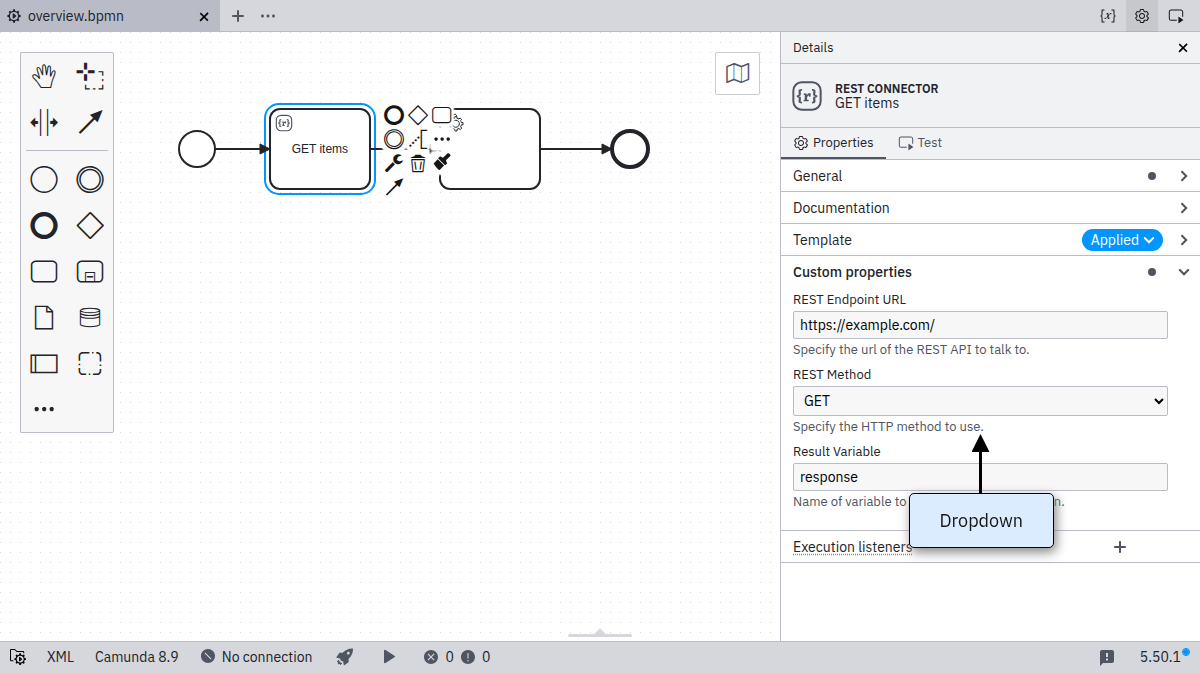
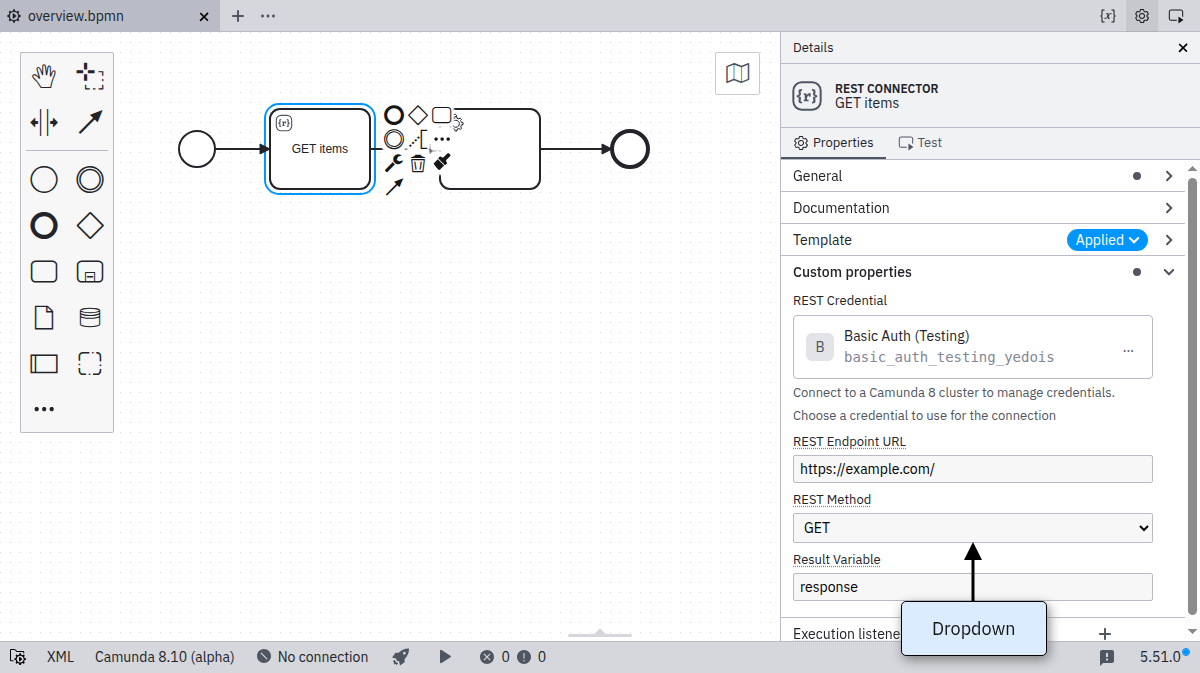
docs(modeler): document Configuration element-template property type

diff --git a/docs/components/modeler/element-templates/template-properties.md b/docs/components/modeler/element-templates/template-properties.md
@@ -36,7 +36,7 @@ The property object keys are divided into required and optional keys:
 
 ### Optional keys
 
-- [`type : "String" | "Text" | "Boolean" | "Dropdown" | "Hidden"`](#setting-the-input-type-type): Defines the input type in the properties panel.
+- [`type : "String" | "Text" | "Boolean" | "Dropdown" | "Hidden" | "Configuration"`](#setting-the-input-type-type): Defines the input type in the properties panel.
 - [`value : String | Number | Boolean`](#setting-a-default-value-value): The default value used if the bound property is not yet set by the user or if the type is `Hidden`.
 - [`generatedValue : Object`](#generating-a-value-generatedvalue): Configuration used to generate a value when the property is applied to an element.
 - [`placeholder : String`](#setting-a-text-placeholder-placeholder): Placeholder text shown in the input field when it is empty.
@@ -94,7 +94,7 @@ The key-value pairs of the property object are explained in the following sectio
 
 ## Setting the input type: `type`
 
-The input types `String`, `Text`, `Number`, `Boolean`, `Dropdown`, and `Hidden` are available.
+The input types `String`, `Text`, `Number`, `Boolean`, `Dropdown`, `Hidden`, and `Configuration` are available.
 
 ### String input type
 
@@ -156,6 +156,44 @@ The `Dropdown` type allows users to select from a number of pre-defined options 
 The resulting properties panel control looks like this:
 
 ![properties panel drop down](./img/field-dropdown.png)
+
+### Configuration input type
+
+The `Configuration` type renders a chooser for a reusable, host-provided configuration selected by reference. It locks to a single [configuration template](./template-metadata.md#embedding-configurations-configurationtemplates), so only compatible configurations are offered.
+
+A configuration is stored on the cluster as a cluster variable that is created with metadata identifying its kind (for example `CREDENTIAL`), its configuration template, and its version. This metadata lets the chooser find compatible configurations and lock to a single template. Selection and resolution happen in two phases:
+
+- **Design time (selection)**: The modeler queries the connected cluster for configurations whose metadata matches the property's `configurationTemplate` (and `configurationTemplateVersion` floor), then serializes a FEEL reference to the chosen one into the model, for example `=camunda.vars.env.myConnection`.
+- **Runtime (resolution)**: The engine resolves that FEEL reference against the live cluster variable and injects the configuration's value — the fields defined by its configuration template — into the bound variable (`connection` in the example below). Because it resolves live, changes to a configuration's values take effect on subsequent executions without redeployment.
+
+A configuration's field values can be plain literals or secret references (`camunda.secrets.*`) that the engine resolves at runtime, so secrets are never stored in the model.
+
+:::note
+Configurations are the mechanism that powers Camunda credentials: a credential is a configuration whose template `kind` is `CREDENTIAL`. Selecting one requires cluster access from the modeler at design time, consistent with existing connector templates.
+:::
+
+It supports the following config-specific keys:
+
+- `configurationTemplate : String`: The `id` of the compatible configuration template.
+- `configurationTemplateVersion : Integer`: Optional. The minimum configuration template version a chosen configuration must satisfy (a floor). Omit for no minimum.
+
+The `Configuration` type does not introduce a new binding. It reuses the standard [`zeebe:input`](#input-mapping-zeebeinput) (outbound) or [`zeebe:property`](#extension-properties-zeebeproperty) (inbound) bindings. When a configuration is chosen, the modeler writes a FEEL reference to the selected configuration plus two modeler-only display-metadata attributes that are ignored at runtime:
+
+- `modelerConfigurationTemplate`: The bound configuration template `id`.
+- `modelerConfigurationName`: The chosen configuration's display name.
+
+```xml
+<zeebe:input source="=camunda.vars.env.basic_auth_testing_yedois"
+             target="connection"
+             modelerConfigurationTemplate="io.camunda.examples:connection:1"
+             modelerConfigurationName="Basic Auth (Testing)" />
+```
+
+The resulting configuration chooser looks like this:
+
+![properties panel configuration chooser](./img/field-configuration.png)
+
+For a complete example, refer to the [example template](./template-example.md).
 
 ## Setting a default value: `value`
 

diff --git a/docs/components/modeler/element-templates/template-example.md b/docs/components/modeler/element-templates/template-example.md
@@ -27,6 +27,16 @@ Let us consider the following example that defines a template for invoking a RES
       }
     },
     {
+      "label": "REST Credential",
+      "description": "Choose a credential to use for the connection",
+      "type": "Configuration",
+      "configurationTemplate": "io.camunda.examples:connection:1",
+      "binding": {
+        "type": "zeebe:input",
+        "name": "connection"
+      }
+    },
+    {
       "label": "REST Endpoint URL",
       "description": "Specify the url of the REST API to talk to.",
       "type": "String",
@@ -80,15 +90,34 @@ Let us consider the following example that defines a template for invoking a RES
         "source": "= body"
       }
     }
+  ],
+  "configurationTemplates": [
+    {
+      "id": "io.camunda.examples:connection:1",
+      "name": "Connection",
+      "version": 1,
+      "kind": "CREDENTIAL",
+      "properties": [
+        {
+          "id": "connectionProperty",
+          "label": "Connection property",
+          "description": "A single connection value, for example an endpoint or token.",
+          "type": "String",
+          "binding": { "type": "property", "name": "connectionProperty" },
+          "constraints": { "notEmpty": true }
+        }
+      ]
+    }
   ]
 }
 ```
 
 ## How the example works
 
-The example defines five custom fields, each mapped to different technical properties:
+The example defines six custom fields, each mapped to different technical properties:
 
 - **Task type**: The value `http` is mapped to the `type` property of a `zeebe:taskDefinition` element in BPMN 2.0 XML. This field is hidden from users since it's a technical requirement.
+- **REST Credential**: A [`Configuration`](./template-properties.md#configuration-input-type) property that lets users select or create a connection, locked to the embedded `io.camunda.examples:connection:1` configuration template. The chosen configuration is injected as the `connection` job variable. The referenced configuration template is embedded under the top-level [`configurationTemplates`](./template-metadata.md#embedding-configurations-configurationtemplates) key.
 - **REST Endpoint URL**: Mapped to a `task header` with the key `url`. This field includes validation to ensure it's a valid HTTP(S) URL.
 - **REST Method**: Mapped to a `task header` with the key `method`. Uses a dropdown to provide predefined HTTP method options.
 - **Request Body**: Mapped to a local variable via an `input parameter` named `body`. This field is optional, so it won't appear in the XML if left empty.
@@ -110,5 +139,6 @@ This example showcases several important template features:
 - **Dropdown choices**: Providing predefined options for user selection.
 - **Optional bindings**: Fields that don't persist empty values in the XML.
 - **Variable mapping**: How to map data between the process and external systems.
+- **Configuration references**: Selecting a reusable configuration through an embedded configuration template.
 
 You can use this example as a starting point for creating your own element templates.

diff --git a/docs/components/modeler/element-templates/template-metadata.md b/docs/components/modeler/element-templates/template-metadata.md
@@ -329,6 +329,41 @@ The following example defines a connector template with two categories, each con
 }
 ```
 
+## Embedding configurations: `configurationTemplates`
+
+- `configurationTemplates` is an optional key.
+
+An element template embeds the configuration template definitions referenced by its [`Configuration` properties](./template-properties.md#configuration-input-type) under the top-level `configurationTemplates` key. Each entry defines a configuration template that a `Configuration` property can lock to through its `configurationTemplate` key.
+
+- `configurationTemplates : Array<Object>` lists the embedded configuration templates. Each entry has the following attributes:
+  - `id : String` is a required key that uniquely identifies the configuration template. It is referenced by a property's `configurationTemplate`.
+  - `name : String` is a required key that defines the configuration template's display name.
+  - `version : Integer` is a required key that defines the configuration template's version.
+  - `kind : String` is a required key that identifies the kind of configuration, for example `CREDENTIAL`. It determines how the configuration is interpreted and where it can be used.
+  - `properties : Array<Object>` is a required key that defines the [properties](./template-properties.md) making up a configuration. Each property defines one field of the configuration's stored value; its `binding` names that field.
+
+```json
+{
+  ...,
+  "configurationTemplates": [
+    {
+      "id": "io.camunda.examples:connection:1",
+      "name": "Connection",
+      "version": 1,
+      "kind": "CREDENTIAL",
+      "properties": [
+        {
+          "id": "connectionProperty",
+          "label": "Connection property",
+          "type": "String",
+          "binding": { "type": "property", "name": "connectionProperty" }
+        }
+      ]
+    }
+  ]
+}
+```
+
 ## Deprecating a template: `deprecated`
 
 - `deprecated` is an optional key.
